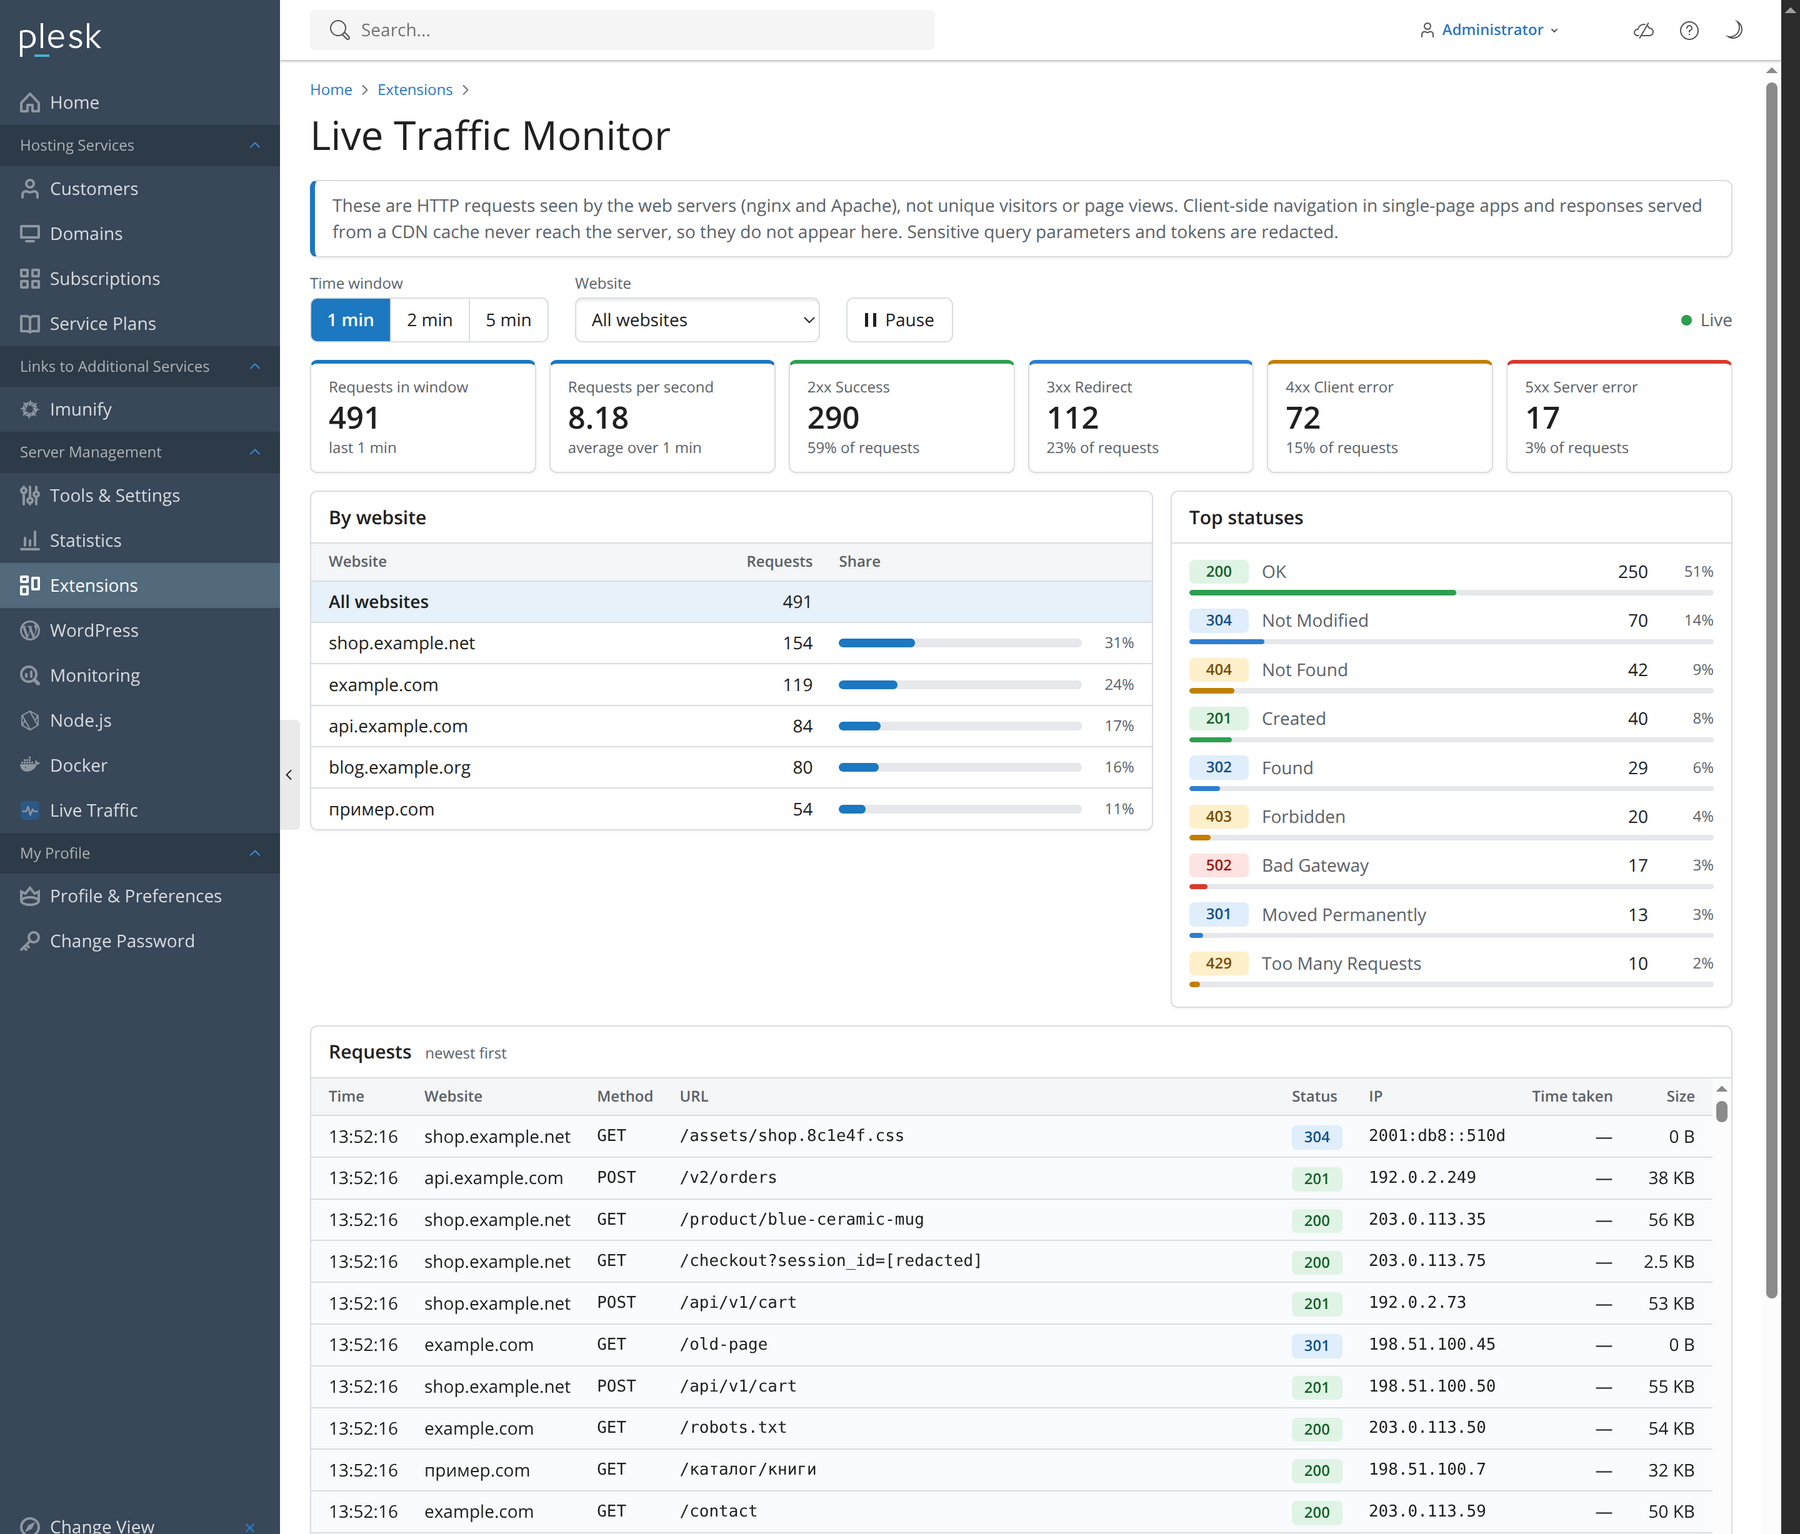
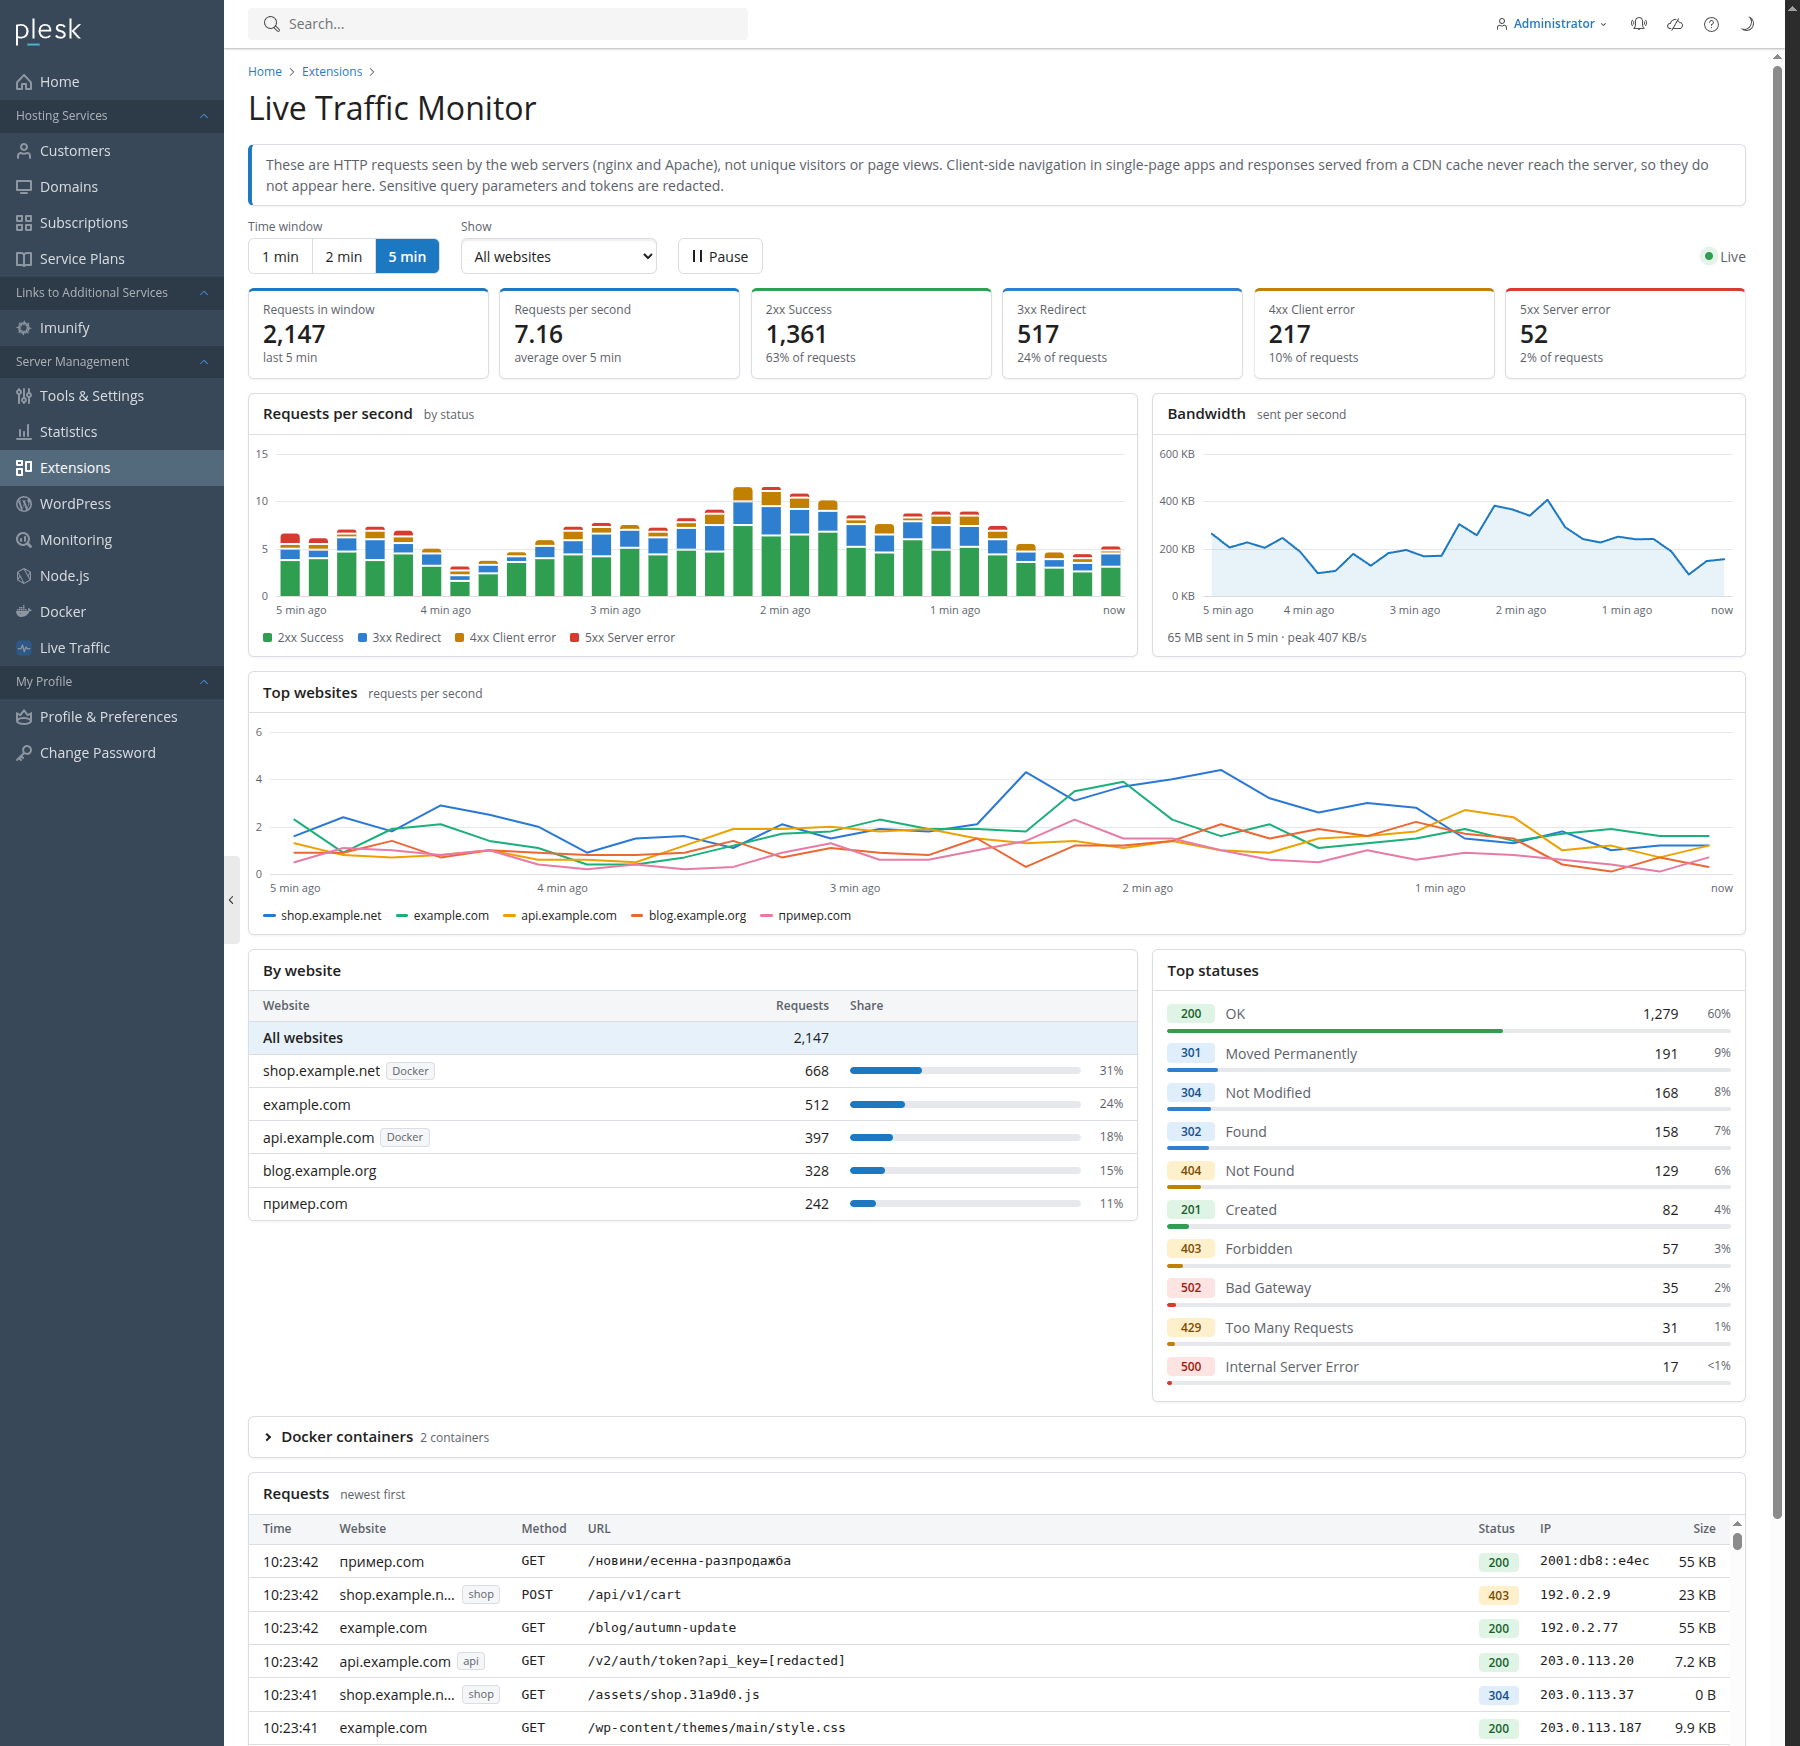
README: screenshot of 1.2.1 with the charts
Taken in Plesk on the installed 1.2.1, with dummy websites and
documentation-range IP addresses fed to the page instead of live data:
the account name reads "Administrator", and the sidebar counters and
the notification badge are hidden. The 5-minute window, so the charts
show a few minutes of the simulated stream.

diff --git a/README.md b/README.md
@@ -5,7 +5,7 @@
 A Plesk Obsidian extension that adds a **Live Traffic** page for server administrators. The page
 shows the HTTP requests reaching every website on the server, nearly in real time.
 
-![The Live Traffic page in Plesk, with summary cards, a breakdown by website and status, and the newest requests](docs/screenshot.png)
+![The Live Traffic page in Plesk, with summary cards, charts of requests by status, bandwidth and the busiest websites, a breakdown by website and status, and the newest requests](docs/screenshot.png)
 
 <sub>The screenshot shows dummy websites and IP addresses from the documentation ranges.</sub>
 
